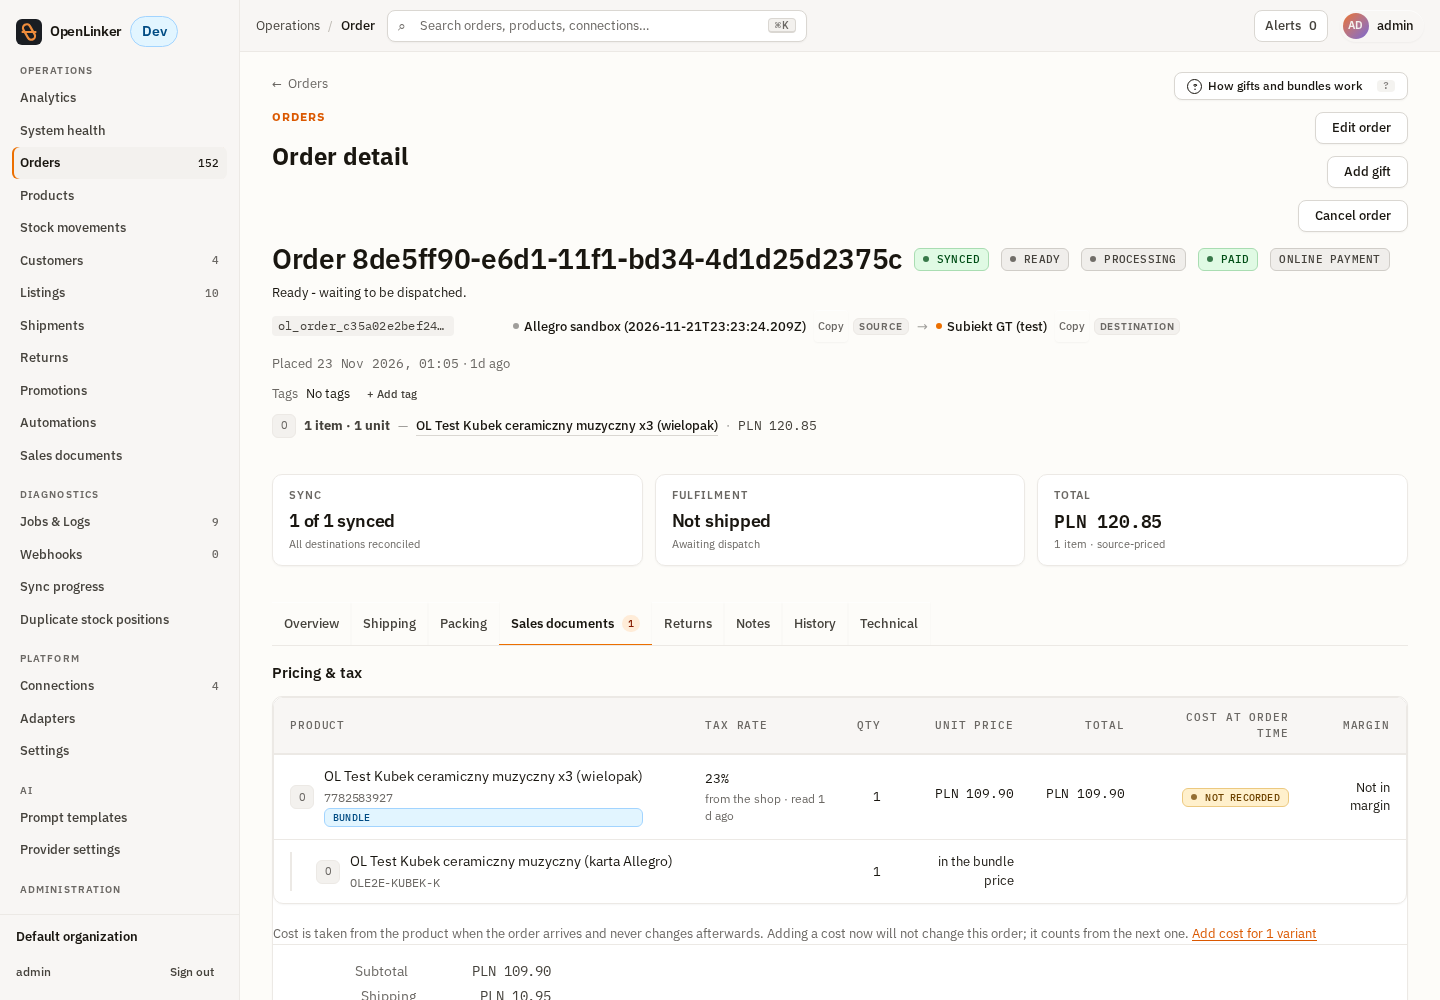
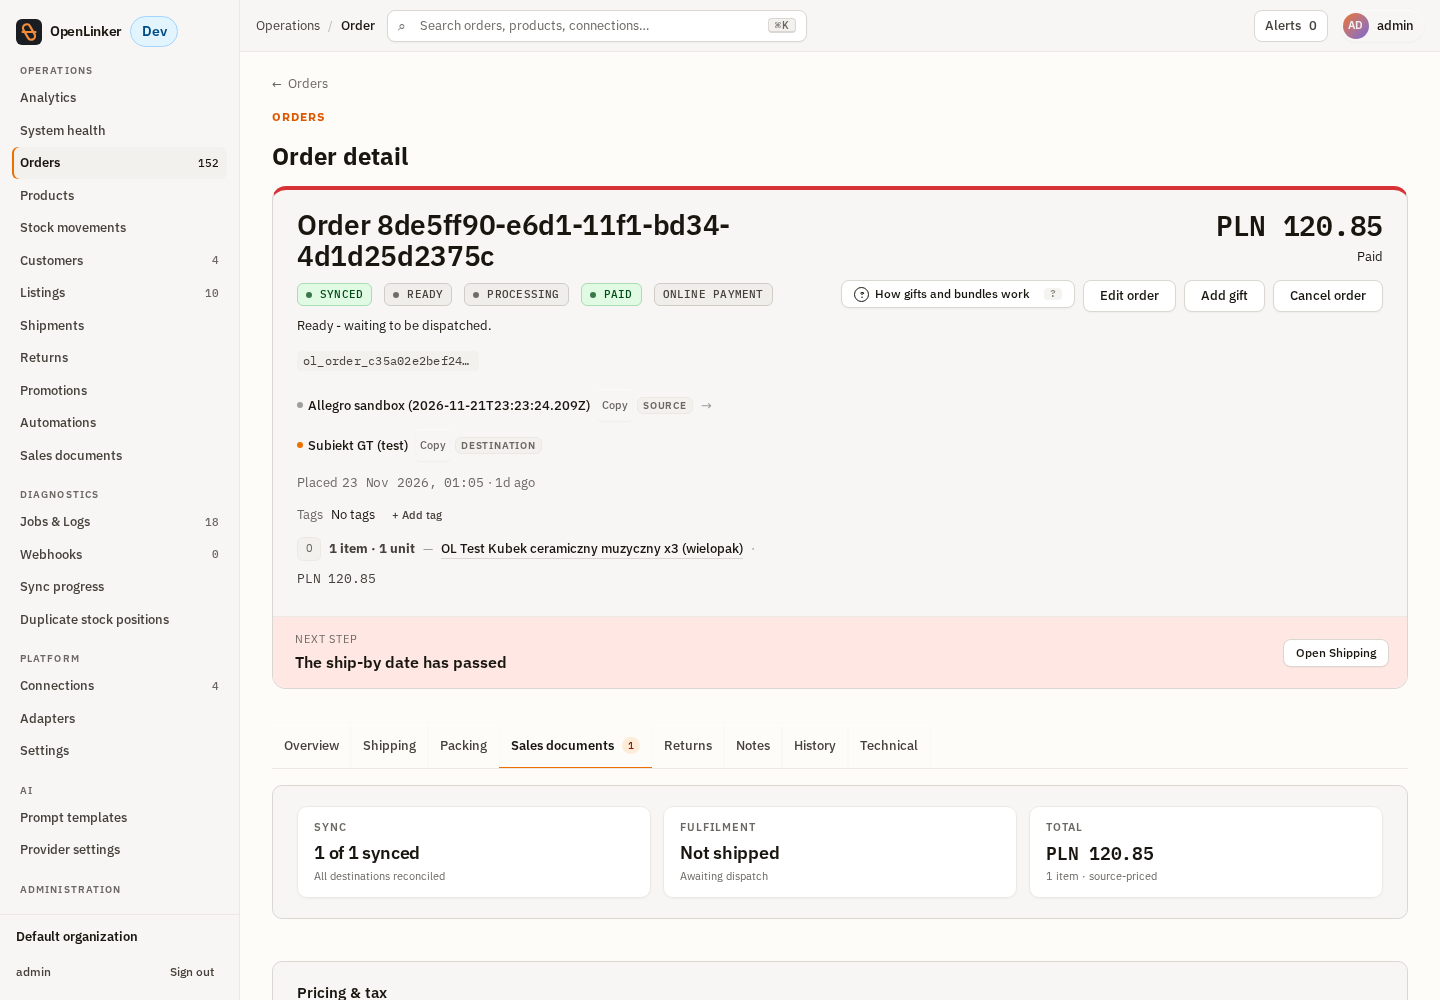
feat(orders): header card with the next step strip and the page actions
The order header becomes a card with an accent bar coloured by the next step, the total on the right, the page actions inside it and the Next step strip along the bottom. The health strip moves into Overview and every tab renders its panels as cards.

Refs #4286

Claude-Session: https://claude.ai/code/session_01JMBervaMXdCE2di1EPZfgm

diff --git a/apps/web/src/pages/orders/order-detail-page.tsx b/apps/web/src/pages/orders/order-detail-page.tsx
@@ -655,6 +655,87 @@ export function OrderDetailPage(): ReactElement {
     technical: copy.tabs.technical,
   };
 
+  const headerActions = (
+    <>
+    <GiftsGuide variant="detail" />
+    <OrderConfirmRefundAction
+      internalOrderId={order.internalOrderId}
+      currency={snapshot.totals?.currency ?? null}
+      sourceConnectionId={order.sourceConnectionId}
+      orderTotal={
+        snapshot.totals
+          ? snapshot.totals.total.toFixed(minorUnitExponentFor(snapshot.totals.currency))
+          : null
+      }
+      visible={snapshot.status === 'cancelled' || hasConfirmedCancel}
+    />
+    <OrderEditAction
+      // Remount per order so an open dialog never carries over to a cached next order.
+      key={`edit:${order.internalOrderId}`}
+      internalOrderId={order.internalOrderId}
+      orderNumber={snapshot.orderNumber ?? null}
+      sourceName={cancelSourceName}
+      snapshot={snapshot}
+      edits={order.edits}
+      packed={order.packedAt !== null && order.packedAt !== undefined}
+      shipped={order.fulfillmentState === 'dispatched'}
+      acceptedWork={hasAcceptedFulfilmentWork(fulfilmentTasksQuery.data?.works ?? [])}
+      terminal={isOrderCancelTerminal({
+        snapshotStatus: snapshot.status,
+        lifecyclePhase: order.lifecyclePhase,
+        fulfillmentState: order.fulfillmentState,
+      })}
+      amending={order.lifecyclePhase === 'amending'}
+      onSaved={handleOrderEdited}
+      onGoTo={scrollToRemedy}
+    />
+    <OrderAddGiftAction
+      key={`gift:${order.internalOrderId}`}
+      internalOrderId={order.internalOrderId}
+      orderLabel={snapshot.orderNumber ?? order.internalOrderId}
+      currency={snapshot.totals?.currency}
+      terminal={isOrderCancelTerminal({
+        snapshotStatus: snapshot.status,
+        lifecyclePhase: order.lifecyclePhase,
+        fulfillmentState: order.fulfillmentState,
+      })}
+      parcelClosed={
+        (order.packedAt !== null && order.packedAt !== undefined) ||
+        order.fulfillmentState === 'dispatched' ||
+        (shipmentsQuery.data?.items ?? []).some(
+          (shipment) => shipment.status === 'generated' || shipment.status === 'dispatched',
+        )
+      }
+      hasSalesDocument={order.salesDocument?.document != null}
+      documentConnectionId={order.salesDocument?.document?.identity.connectionId ?? null}
+      notReady={order.recordStatus !== 'ready'}
+      open={giftDialogOpen}
+      onOpenChange={setGiftDialogOpen}
+    />
+    <OrderCancelAction
+      // Remount per order so an open dialog never carries over to a cached next order.
+      key={order.internalOrderId}
+      internalOrderId={order.internalOrderId}
+      orderNumber={snapshot.orderNumber ?? null}
+      sourceName={cancelSourceName}
+      unitCount={cancelUnitCount}
+      totalLabel={cancelTotalLabel}
+      invoiced={snapshot.invoice?.status === 'issued'}
+      acceptedWork={hasAcceptedFulfilmentWork(fulfilmentTasksQuery.data?.works ?? [])}
+      terminal={isOrderCancelTerminal({
+        snapshotStatus: snapshot.status,
+        lifecyclePhase: order.lifecyclePhase,
+        fulfillmentState: order.fulfillmentState,
+      })}
+      amending={order.lifecyclePhase === 'amending'}
+      onResult={handleOrderCancelResult}
+      onGoToShipment={() => {
+        goToAnchor('shipment');
+      }}
+    />
+    </>
+  );
+
   return (
     <PageLayout
       // Close the loop back to wherever the operator came from (#1905): a
@@ -666,105 +747,21 @@ export function OrderDetailPage(): ReactElement {
       }
       eyebrow={copy.eyebrow}
       title={copy.title}
-      actions={
-        <>
-        <GiftsGuide variant="detail" />
-        <OrderConfirmRefundAction
-          internalOrderId={order.internalOrderId}
-          currency={snapshot.totals?.currency ?? null}
-          sourceConnectionId={order.sourceConnectionId}
-          orderTotal={
-            snapshot.totals
-              ? snapshot.totals.total.toFixed(minorUnitExponentFor(snapshot.totals.currency))
-              : null
-          }
-          visible={snapshot.status === 'cancelled' || hasConfirmedCancel}
-        />
-        <OrderEditAction
-          // Remount per order so an open dialog never carries over to a cached next order.
-          key={`edit:${order.internalOrderId}`}
-          internalOrderId={order.internalOrderId}
-          orderNumber={snapshot.orderNumber ?? null}
-          sourceName={cancelSourceName}
-          snapshot={snapshot}
-          edits={order.edits}
-          packed={order.packedAt !== null && order.packedAt !== undefined}
-          shipped={order.fulfillmentState === 'dispatched'}
-          acceptedWork={hasAcceptedFulfilmentWork(fulfilmentTasksQuery.data?.works ?? [])}
-          terminal={isOrderCancelTerminal({
-            snapshotStatus: snapshot.status,
-            lifecyclePhase: order.lifecyclePhase,
-            fulfillmentState: order.fulfillmentState,
-          })}
-          amending={order.lifecyclePhase === 'amending'}
-          onSaved={handleOrderEdited}
-          onGoTo={scrollToRemedy}
-        />
-        <OrderAddGiftAction
-          key={`gift:${order.internalOrderId}`}
-          internalOrderId={order.internalOrderId}
-          orderLabel={snapshot.orderNumber ?? order.internalOrderId}
-          currency={snapshot.totals?.currency}
-          terminal={isOrderCancelTerminal({
-            snapshotStatus: snapshot.status,
-            lifecyclePhase: order.lifecyclePhase,
-            fulfillmentState: order.fulfillmentState,
-          })}
-          parcelClosed={
-            (order.packedAt !== null && order.packedAt !== undefined) ||
-            order.fulfillmentState === 'dispatched' ||
-            (shipmentsQuery.data?.items ?? []).some(
-              (shipment) => shipment.status === 'generated' || shipment.status === 'dispatched',
-            )
-          }
-          hasSalesDocument={order.salesDocument?.document != null}
-          documentConnectionId={order.salesDocument?.document?.identity.connectionId ?? null}
-          notReady={order.recordStatus !== 'ready'}
-          open={giftDialogOpen}
-          onOpenChange={setGiftDialogOpen}
-        />
-        <OrderCancelAction
-          // Remount per order so an open dialog never carries over to a cached next order.
-          key={order.internalOrderId}
-          internalOrderId={order.internalOrderId}
-          orderNumber={snapshot.orderNumber ?? null}
-          sourceName={cancelSourceName}
-          unitCount={cancelUnitCount}
-          totalLabel={cancelTotalLabel}
-          invoiced={snapshot.invoice?.status === 'issued'}
-          acceptedWork={hasAcceptedFulfilmentWork(fulfilmentTasksQuery.data?.works ?? [])}
-          terminal={isOrderCancelTerminal({
-            snapshotStatus: snapshot.status,
-            lifecyclePhase: order.lifecyclePhase,
-            fulfillmentState: order.fulfillmentState,
-          })}
-          amending={order.lifecyclePhase === 'amending'}
-          onResult={handleOrderCancelResult}
-          onGoToShipment={() => {
-            goToAnchor('shipment');
-          }}
-        />
-        </>
-      }
     >
       <OrderDetailHeader
         order={order}
         snapshot={snapshot}
         tags={<OrderTagsHeaderRow internalOrderId={internalOrderId} />}
+        actions={headerActions}
+        accent={nextStep ? nextStep.tone : 'ok'}
+        footer={
+          nextStep ? (
+            <OrderNextStepCard step={nextStep} tabLabels={tabLabels} onOpenTab={handleTabChange} />
+          ) : null
+        }
       />
 
       <PinnedOrderNoteBanner internalOrderId={internalOrderId} />
-
-      <OrderHealthSummary
-        syncStatus={order.syncStatus}
-        fulfillment={fulfillment}
-        totals={snapshot.totals}
-        itemCount={snapshot.items.length}
-        failedDestinationId={failedDestinations[0]?.destinationConnectionId ?? null}
-        fulfillmentPending={connectionsQuery.isLoading || shipmentsQuery.isLoading}
-        destinationRoutingBlockReason={order.destinationRoutingBlockReason}
-        handledInOpenLinker={order.handledInOpenLinker}
-      />
 
       <OrderCancelResultNotice
         key={order.internalOrderId}
@@ -896,14 +893,21 @@ export function OrderDetailPage(): ReactElement {
         onAddGift={canAddGift ? () => setGiftDialogOpen(true) : undefined}
       />
 
-      {nextStep ? (
-        <OrderNextStepCard step={nextStep} tabLabels={tabLabels} onOpenTab={handleTabChange} />
-      ) : null}
-
       <Tabs value={activeTab} onValueChange={handleTabChange}>
         <OrderDetailTabList ariaLabel={copy.tabs.ariaLabel} tabs={tabEntries} />
 
       <TabsContent value="overview" forceMount className="order-detail__tab">
+        <OrderHealthSummary
+          syncStatus={order.syncStatus}
+          fulfillment={fulfillment}
+          totals={snapshot.totals}
+          itemCount={snapshot.items.length}
+          failedDestinationId={failedDestinations[0]?.destinationConnectionId ?? null}
+          fulfillmentPending={connectionsQuery.isLoading || shipmentsQuery.isLoading}
+          destinationRoutingBlockReason={order.destinationRoutingBlockReason}
+          handledInOpenLinker={order.handledInOpenLinker}
+        />
+
       {snapshot.items.length > 0 || snapshot.totals ? (
         <section className="detail-section">
           <h3 className="detail-section__title">{copy.pricingTitle}</h3>

diff --git a/apps/web/src/features/orders/components/order-detail-header.tsx b/apps/web/src/features/orders/components/order-detail-header.tsx
@@ -37,6 +37,12 @@ interface OrderDetailHeaderProps {
    * between the id/route line and the contents summary.
    */
   tags?: ReactNode;
+  /** Page actions (edit, cancel, ...), shown in the header card (#4286). */
+  actions?: ReactNode;
+  /** Strip along the bottom of the card, e.g. the Next step card (#4286). */
+  footer?: ReactNode;
+  /** Colour of the card's top bar: the tone of the next step, or `ok` when there is none. */
+  accent?: 'error' | 'warning' | 'info' | 'ok';
 }
 
 const HEALTH_TONE: Record<OrderHealthLevel, StatusBadgeTone> = {
@@ -59,7 +65,14 @@ export function isChannelStatusStale(phase: string | null | undefined, channelSt
   return phase === 'cancelled' && channelStatus.toLowerCase() !== 'cancelled';
 }
 
-export function OrderDetailHeader({ order, snapshot, tags }: OrderDetailHeaderProps): ReactElement {
+export function OrderDetailHeader({
+  order,
+  snapshot,
+  tags,
+  actions,
+  footer,
+  accent = 'ok',
+}: OrderDetailHeaderProps): ReactElement {
   const copy = useMessages('orders').orderDetailHeader;
   const paymentLabels: Record<PaymentStatus, string> = copy.payment;
   const format = useFormat();
@@ -76,7 +89,9 @@ export function OrderDetailHeader({ order, snapshot, tags }: OrderDetailHeaderPr
   const productName = firstItem?.name ?? firstItem?.sku ?? firstItem?.productId ?? null;
 
   return (
-    <header className="order-header">
+    <header className="order-header order-header--card" data-accent={accent}>
+      <div className="order-header__body">
+      <div className="order-header__main">
       <div className="order-header__top">
         <h1 className="order-header__title">{title}</h1>
         <StatusBadge tone={HEALTH_TONE[healthLevel]} withDot pulse={healthLevel === 'pending'}>
@@ -199,6 +214,20 @@ export function OrderDetailHeader({ order, snapshot, tags }: OrderDetailHeaderPr
           ) : null}
         </div>
       ) : null}
+      </div>
+      <div className="order-header__aside">
+        {snapshot.totals ? (
+          <strong className="order-header__total mono-text tabular">
+            {format.money(snapshot.totals.total, snapshot.totals.currency)}
+          </strong>
+        ) : null}
+        {snapshot.paymentStatus ? (
+          <span className="order-header__paid text-muted">{paymentLabels[snapshot.paymentStatus]}</span>
+        ) : null}
+        {actions ? <div className="order-header__actions">{actions}</div> : null}
+      </div>
+      </div>
+      {footer ? <div className="order-header__footer">{footer}</div> : null}
     </header>
   );
 }

diff --git a/apps/web/src/index.css b/apps/web/src/index.css
@@ -40318,3 +40318,25 @@ tr:hover .pm-move,tr:focus-within .pm-move{opacity:1}
 .order-next-step__eyebrow { font-size: 0.6875rem; letter-spacing: 0.08em; text-transform: uppercase; color: var(--text-muted); }
 .order-next-step__title { font-size: 1rem; font-weight: 600; overflow-wrap: anywhere; }
 @media (max-width: 640px) { .order-next-step .button { min-height: 44px; width: 100%; } }
+
+/* Order detail redesign (#4286): header card, cards in every tab */
+.order-header--card { background: var(--bg-shell); border: 1px solid var(--border-default); border-top: 4px solid var(--status-success); border-radius: var(--radius-xl); padding: 0; overflow: hidden; }
+.order-header--card[data-accent='error'] { border-top-color: var(--status-error); }
+.order-header--card[data-accent='warning'] { border-top-color: var(--status-warning); }
+.order-header--card[data-accent='info'] { border-top-color: var(--status-info); }
+.order-header__body { display: grid; grid-template-columns: minmax(0, 1fr) auto; gap: 16px 24px; padding: 20px 24px; align-items: start; }
+.order-header__main { display: flex; flex-direction: column; gap: 10px; min-width: 0; }
+.order-header__aside { display: flex; flex-direction: column; align-items: flex-end; gap: 6px; min-width: 0; }
+.order-header__total { font-size: 1.75rem; line-height: 1.1; }
+.order-header__paid { font-size: 0.8125rem; }
+.order-header__actions { display: flex; flex-wrap: wrap; justify-content: flex-end; gap: 8px; margin-top: 8px; }
+.order-header__footer { border-top: 1px solid var(--border-subtle); }
+.order-header__footer .order-next-step { border: 0; border-left: 4px solid transparent; border-radius: 0; }
+@media (max-width: 760px) {
+  .order-header__body { grid-template-columns: minmax(0, 1fr); padding: 16px; }
+  .order-header__aside { align-items: flex-start; }
+  .order-header__actions { justify-content: flex-start; }
+  .order-header__actions .button { min-height: 44px; }
+}
+.order-detail__tab > *:not(:empty):not(.order-detail__parse-warning-row) { background: var(--bg-shell); border: 1px solid var(--border-default); border-radius: var(--radius-lg); padding: 20px 24px; min-width: 0; }
+.order-detail__tab > * .detail-section { border: 0; padding: 0; background: transparent; }
